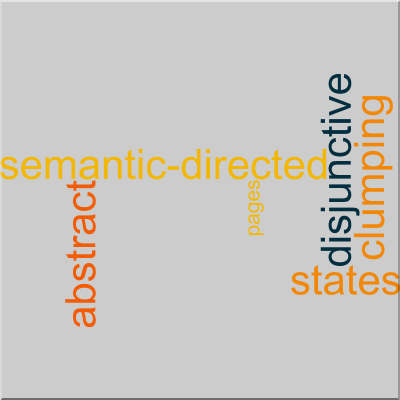
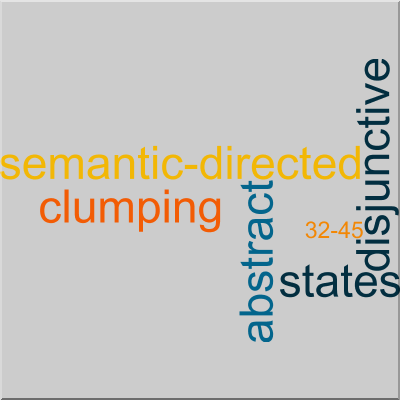
Update TACAS'17 and POPL'17

Changed region(s): [[0.0, 0.15, 1.0, 0.87]]

diff --git a/papers/clumping-popl17.html b/papers/clumping-popl17.html
@@ -77,7 +77,7 @@
   title = {Semantic-Directed Clumping of Disjunctive Abstract States},
   booktitle = POPL,
   year = {2017},
-  pages = {13 pages},
+  pages = {32-45},
   
 }
 </pre></div>

diff --git a/papers/vmf-gpce16.html b/papers/vmf-gpce16.html
@@ -77,7 +77,7 @@
   title = {A Vision for Online Verification-Validation},
   booktitle = GPCE,
   year = {2016},
-  pages = {12 pages},
+  pages = {190-201},
   
 }
 </pre></div>

diff --git a/papers/discriminator-tacas17.html b/papers/discriminator-tacas17.html
@@ -77,7 +77,7 @@
   title = {Discriminating Traces with Time},
   booktitle = TACAS,
   year = {2017},
-  pages = {17 pages},
+  pages = {21-37},
   
 }
 </pre></div>
